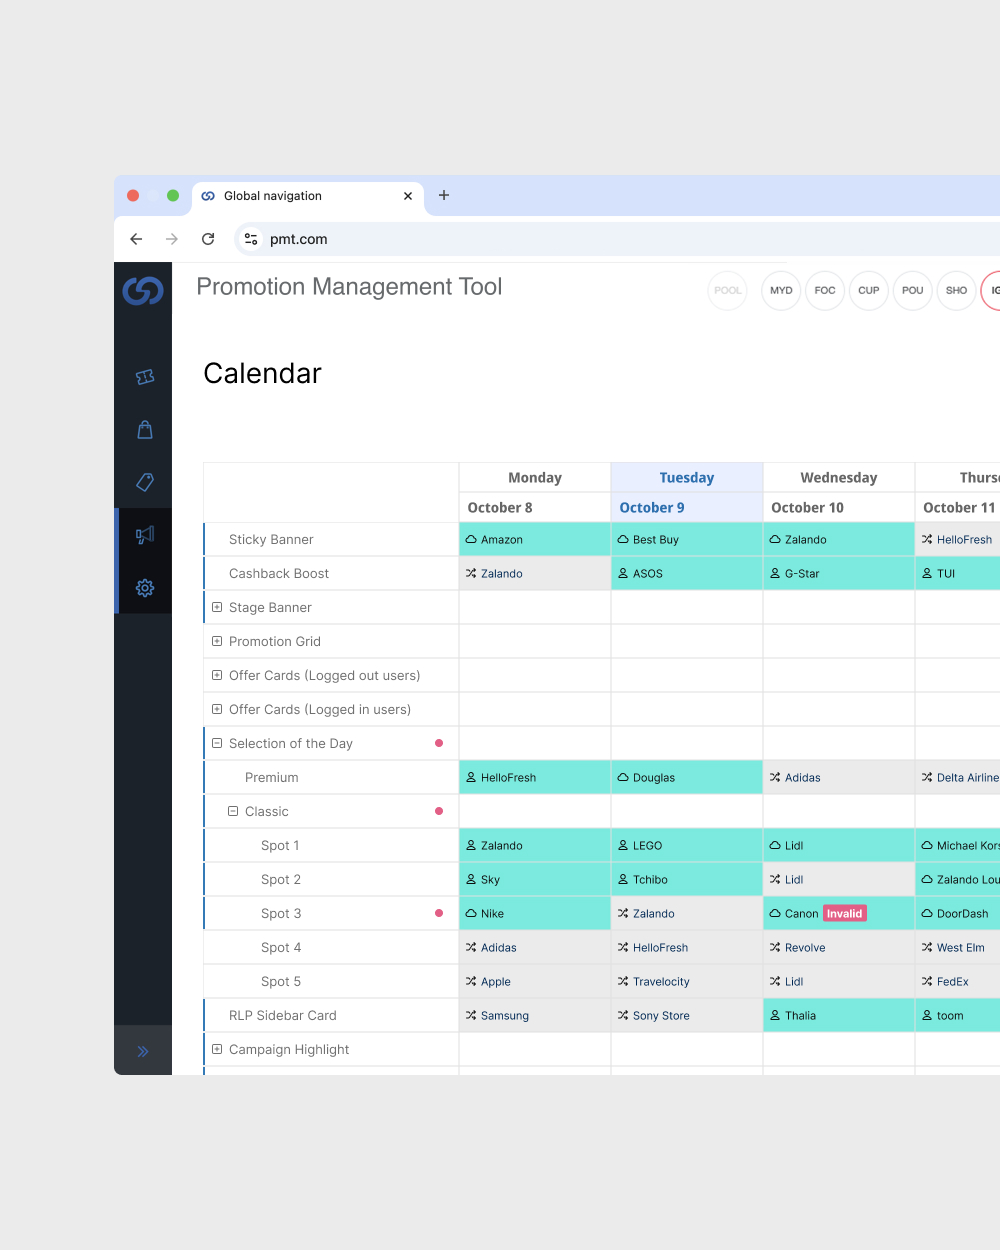
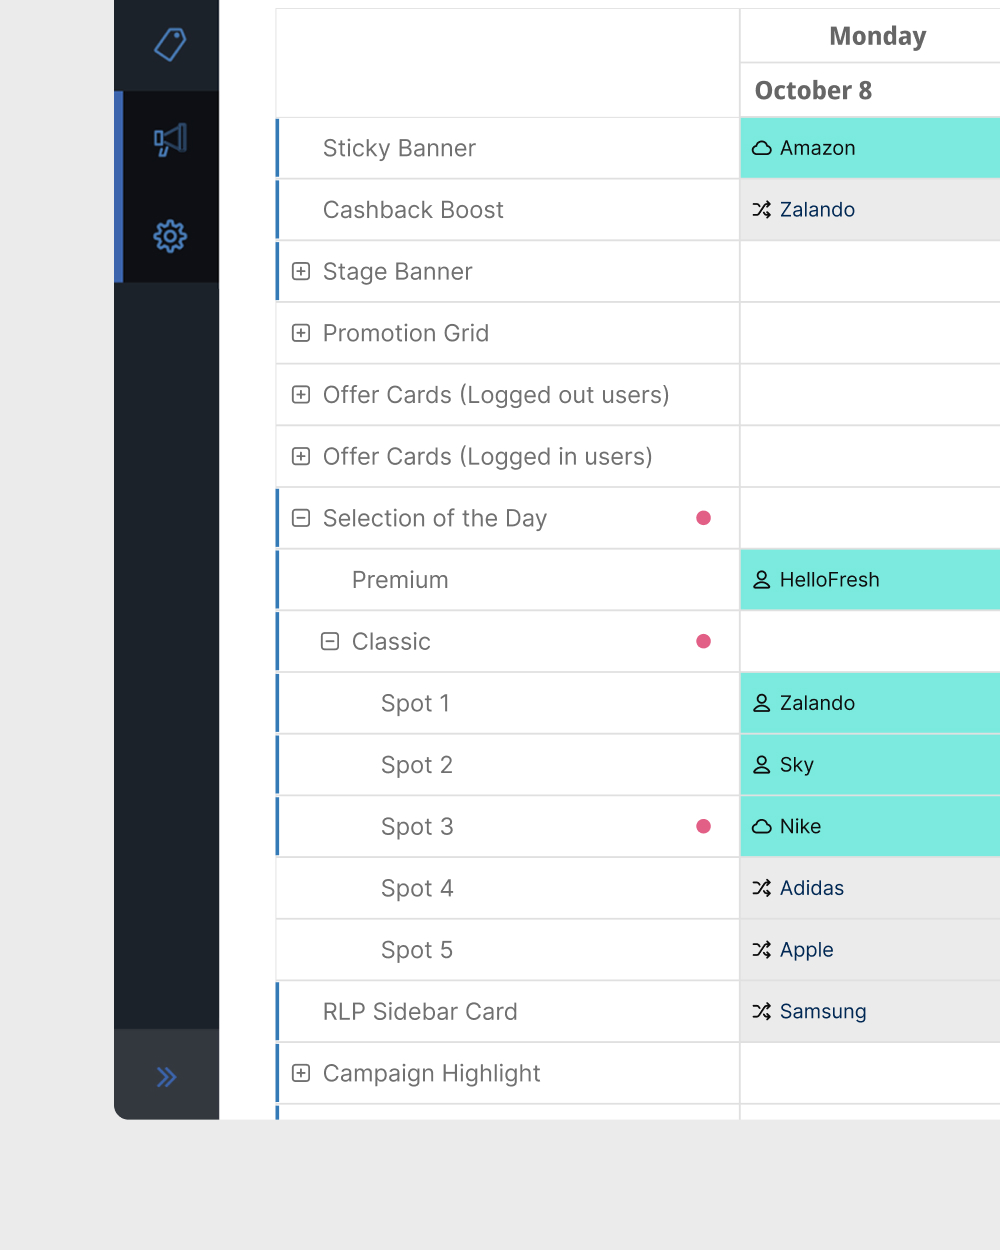
up

diff --git a/project-atolls-pmt.html b/project-atolls-pmt.html
@@ -597,9 +597,9 @@
                 <div class="fl db w-50 w-50-m w-50-l pa0 pr1 pr2-l pr2-m">
                     <a class="dt">
                         <div class="img-cycle">
-                            <img class="db w-100 br4" src="/img/pmt-gif-1.jpg" alt="Hovering the cloud icon on a partner cell shows a Salesforce tooltip">
-                            <img class="db w-100 br4" src="/img/pmt-gif-2.jpg" alt="Hovering the person icon on a partner cell shows a Manual tooltip">
-                            <img class="db w-100 br4" src="/img/pmt-gif-3.jpg" alt="Hovering the shuffle icon on a partner cell shows an Autofill tooltip">
+                            <img class="db w-100 br4" src="/img/pmt-gif-4.jpg" alt="Hovering the cloud icon on a partner cell shows a Salesforce tooltip">
+                            <img class="db w-100 br4" src="/img/pmt-gif-5.jpg" alt="Hovering the person icon on a partner cell shows a Manual tooltip">
+                            <img class="db w-100 br4" src="/img/pmt-gif-6.jpg" alt="Hovering the shuffle icon on a partner cell shows an Autofill tooltip">
                         </div>
                     </a>
                     <!--Caption -->
